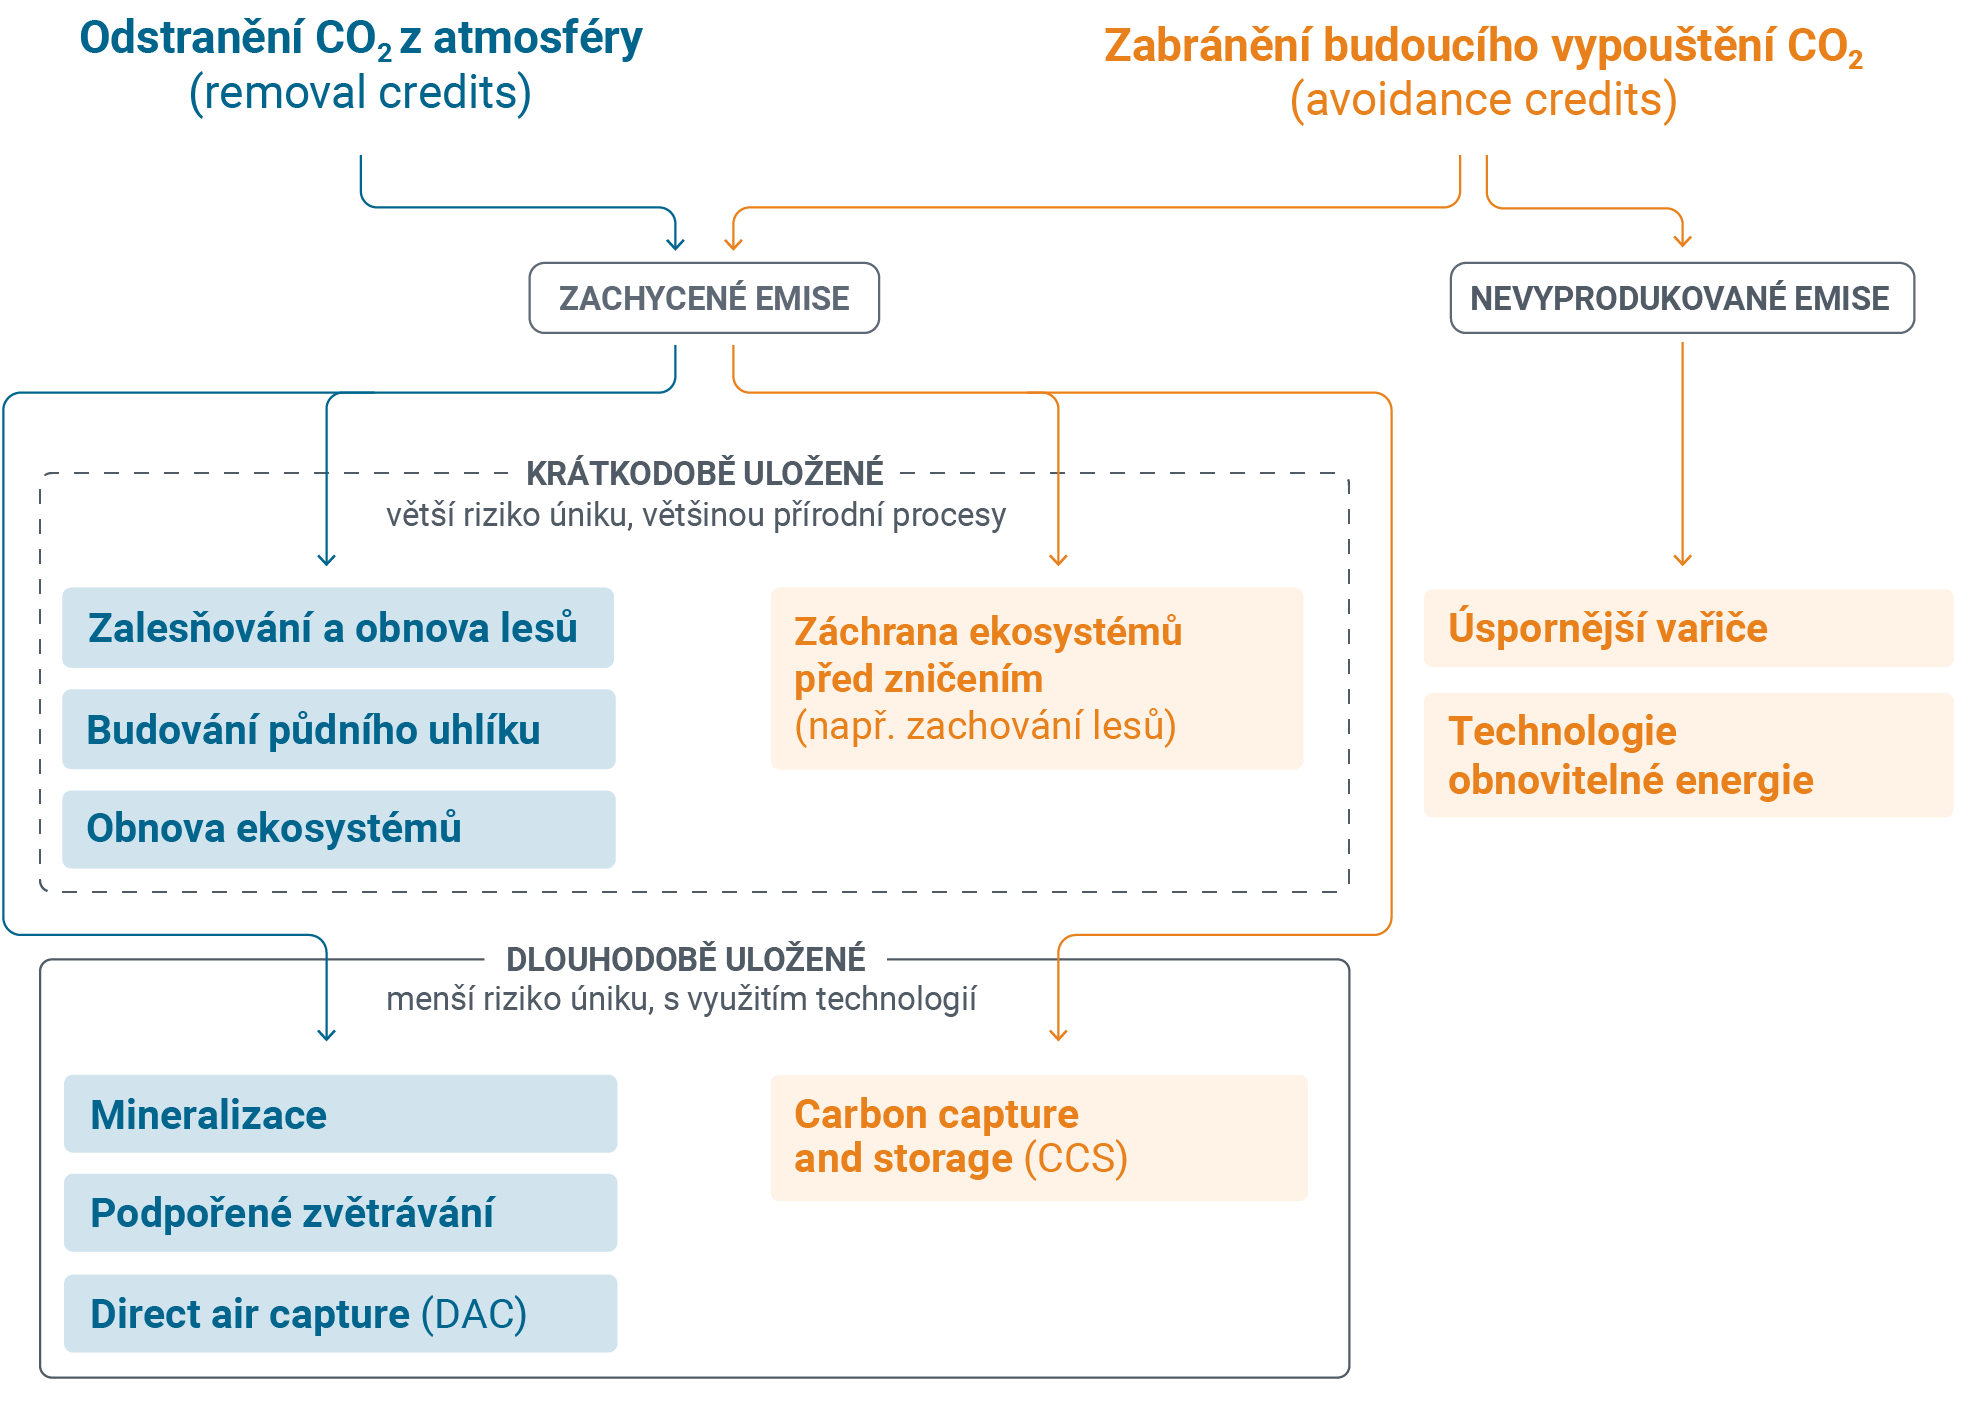
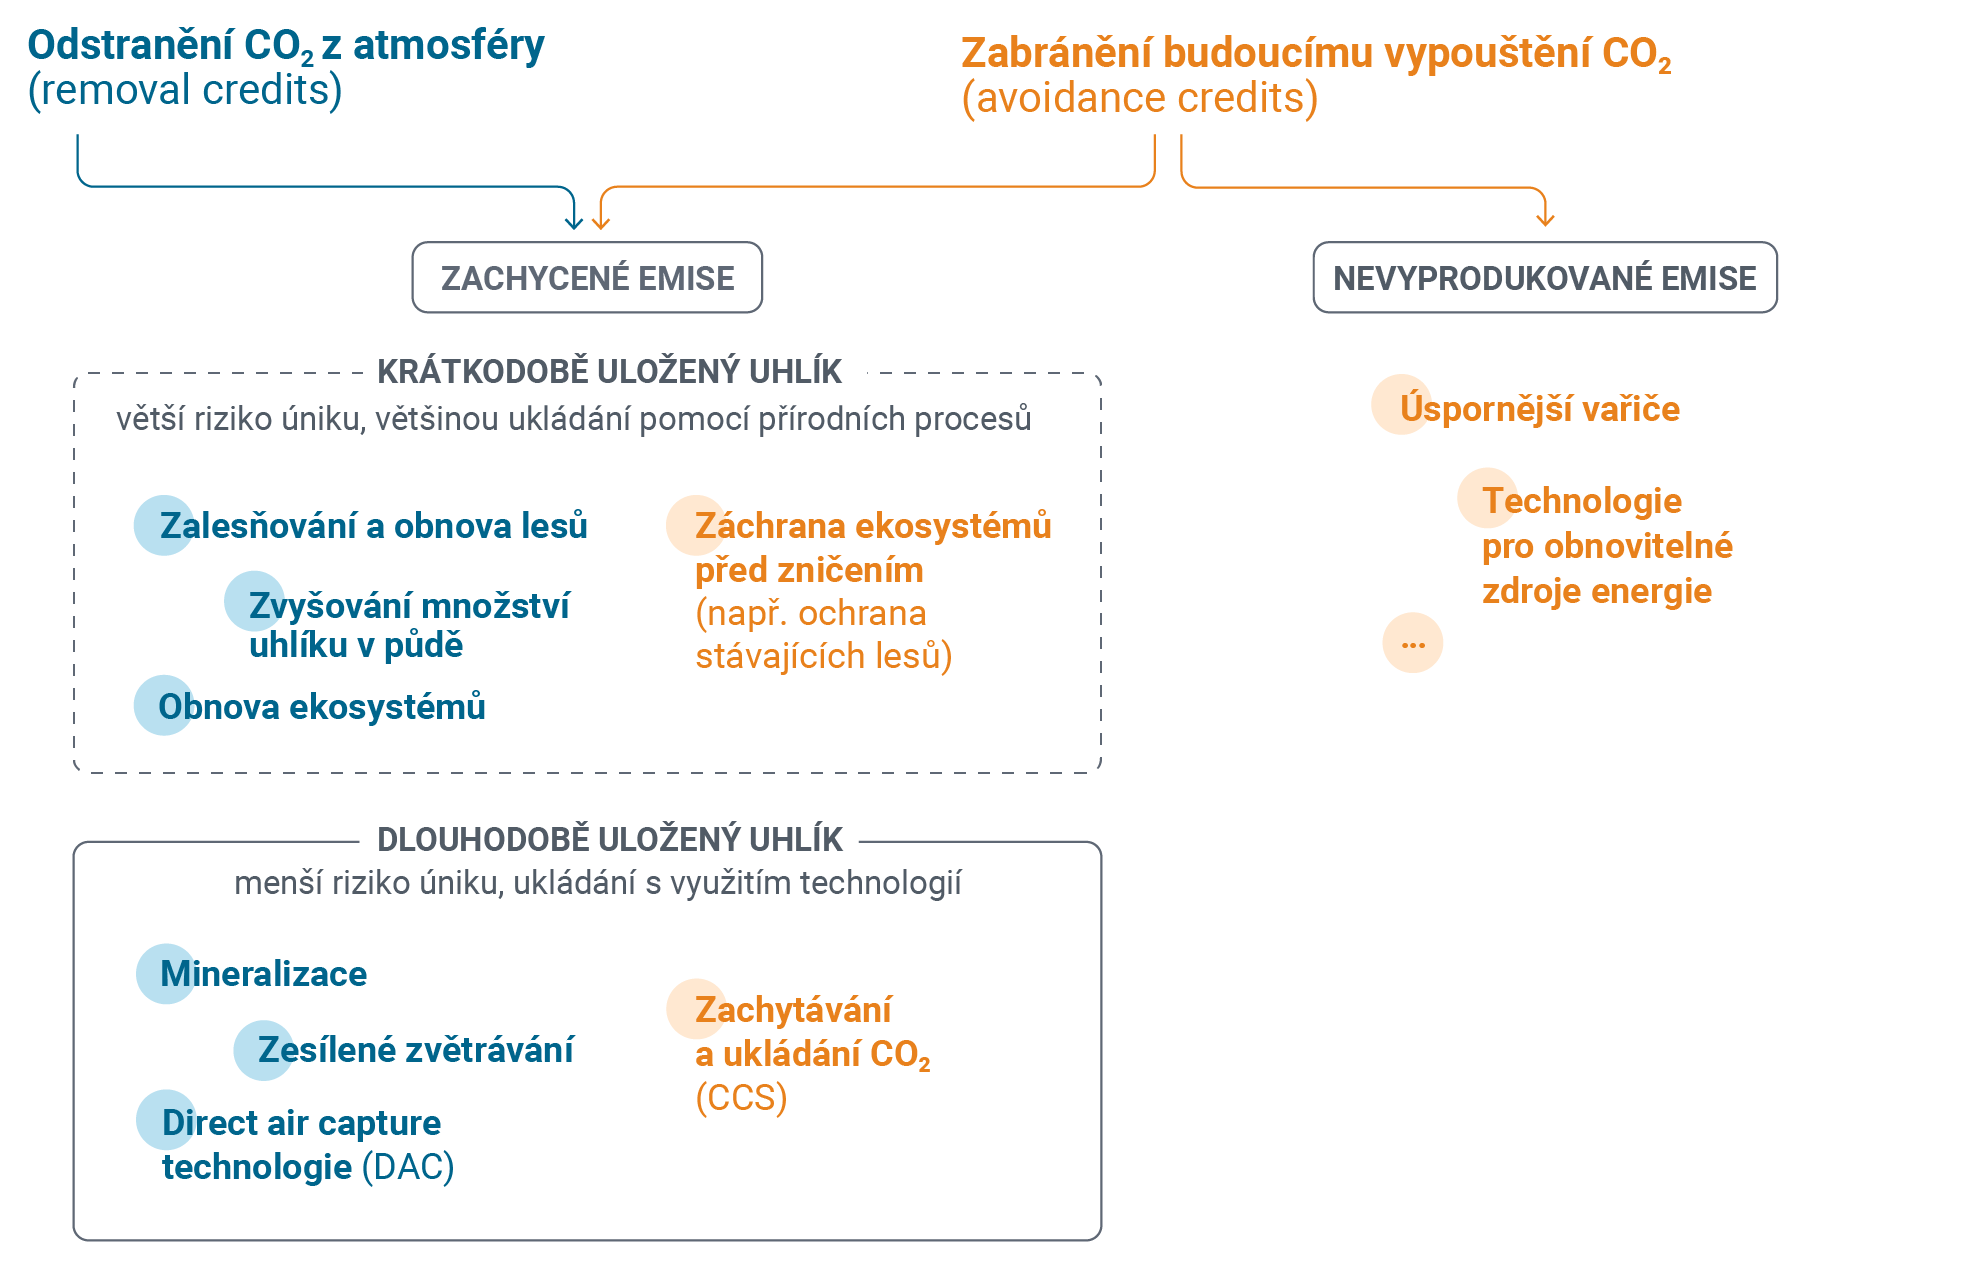
Aktualizace a přesunutí schémat v textu

diff --git a/collections/_explainers/uhlikove-offsety-1.md b/collections/_explainers/uhlikove-offsety-1.md
@@ -31,28 +31,26 @@ Uhlíkové offsety (nebo také kredity) jsou **obchodovatelné jednotky**, díky
 
 Jde o dohodu mezi dvěma či více stranami: kupujícím, realizátorem aktivity a případně nezávislým auditorem/garantem. Kupující zaplatí za offset, aby snížil svou uhlíkovou stopu, realizátor slibuje, že tyto prostředky využije na offsetové aktivity, které povedou k odstranění emisí z atmosféry nebo zabrání jejich vypouštění. Nezávislý auditor poté posuzuje, nakolik jsou realizátorovy sliby skutečně naplňovány.
 
+{% include figure.html
+    name="schema-vztahu.png"
+    caption="Cesta uhlíkového offsetu"
+    alt="Cesta uhlíkového offsetu"
+    source-text="Fakta o klimatu"
+%}
+
 Konkrétní podoba offsetových aktivit může být různá. Například:
 
 - farmář slíbí, že změní způsob hospodaření na své půdě tak, aby v sobě hromadila více organické hmoty, a tedy více uhlíku
 - organizace slíbí, že zakoupí určitou plochu lesa a zabrání tak možnému vykácení (a tím i uvolnění CO<sub>2</sub>, k němuž dochází při těžbě a zpracování dřeva) 
 - firma slíbí, že vybaví obyvatele subsaharské Afriky efektivními plynovými vařiči, které sníží emise vznikající během vaření při pálení dřeva, odpadů apod.
 
-{%comment%}
-{% include figure.html
-    name=""
-    caption=""
-    alt=""
-    source-text="Fakta o klimatu"
-%}
-{%endcomment%}
-
 Z hlediska snižování uhlíkové stopy představují offsety spíše **doplňkový nástroj**, přesto hrají svou důležitou úlohu, například v kompenzování emisí z odvětví, která je těžké dekarbonizovat, jako je třeba výroba cementu. Může to být rovněž způsob, jak emise ”odložit” na později (a získat tak čas na vývoj potřebných technologií) nebo jak přírodě pomoci nastartovat ozdravné procesy. Tržní prostředí navíc pomáhá zajistit, že budou dostupné prostředky využity efektivně. 
 
 ## S jakými typy offsetů se lze setkat?
-Příklady různých offsetových aktivit přibližuje schéma níže. Aktivity jsou rozděleny podle toho, zda uhlík z atmosféry odstraňují nebo zabraňují jeho vypouštění, a dále jakým způsobem je odstraněný uhlík uložen. Může totiž jít o **uložení krátkodobé** (obvykle **díky přírodním procesům**), kde existuje větší riziko zpětného uvolnění uhlíku do atmosféry (například když les zničí požár), nebo o **dlouhodobé uložení** s využitím **technologií**, které jsou na zpětné uvolnění uhlíku méně náchylné (například ukládání hluboko do geologických vrstev). 
+Příklady různých offsetových aktivit přibližuje schéma níže. Aktivity jsou rozděleny podle toho, zda uhlík z atmosféry <span style="color:#00658c">**odstraňují**</span> nebo <span style="color:#e8811c">**zabraňují jeho vypouštění**</span>, a dále jakým způsobem je odstraněný uhlík uložen. Může totiž jít o **uložení krátkodobé** (obvykle **díky přírodním procesům**), kde existuje větší riziko zpětného uvolnění uhlíku do atmosféry (například když les zničí požár), nebo o **dlouhodobé uložení** s využitím **technologií**, které jsou na zpětné uvolnění uhlíku méně náchylné (například ukládání hluboko do geologických vrstev). 
 
 {% include figure.html
-    name="uhlikove-offset-schema-02.svg"
+    name="typy-offsetu.png"
     caption="Dvě základní kategorie uhlíkových offsetů"
     alt="Dvě základní kategorie uhlíkových offsetů"
     source-text="Fakta o klimatu"
@@ -60,13 +58,6 @@ Příklady různých offsetových aktivit přibližuje schéma níže. Aktivity 
 
 ## Jak to funguje v praxi?
 Jak složitá bude cesta uhlíkového offsetu v praxi, záleží vždy na konkrétní zemi, resp. trhu, kde se s offsety obchoduje[^schema-carbon-brief]. Následující schéma ukazuje základní rámec pro uhlíkové offsety v Česku[^schema-konzultace]. Problémům, které se mohou v rámci jednotlivých kroků objevit, se podrobněji věnuje další explainer. 
-
-{% include figure.html
-    name="schema-cesta-offsetu.svg"
-    caption="Cesta uhlíkového offsetu"
-    alt="Cesta uhlíkového offsetu"
-    source-text="Fakta o klimatu"
-%}
 
 ## Zdroje a poznámky
 
